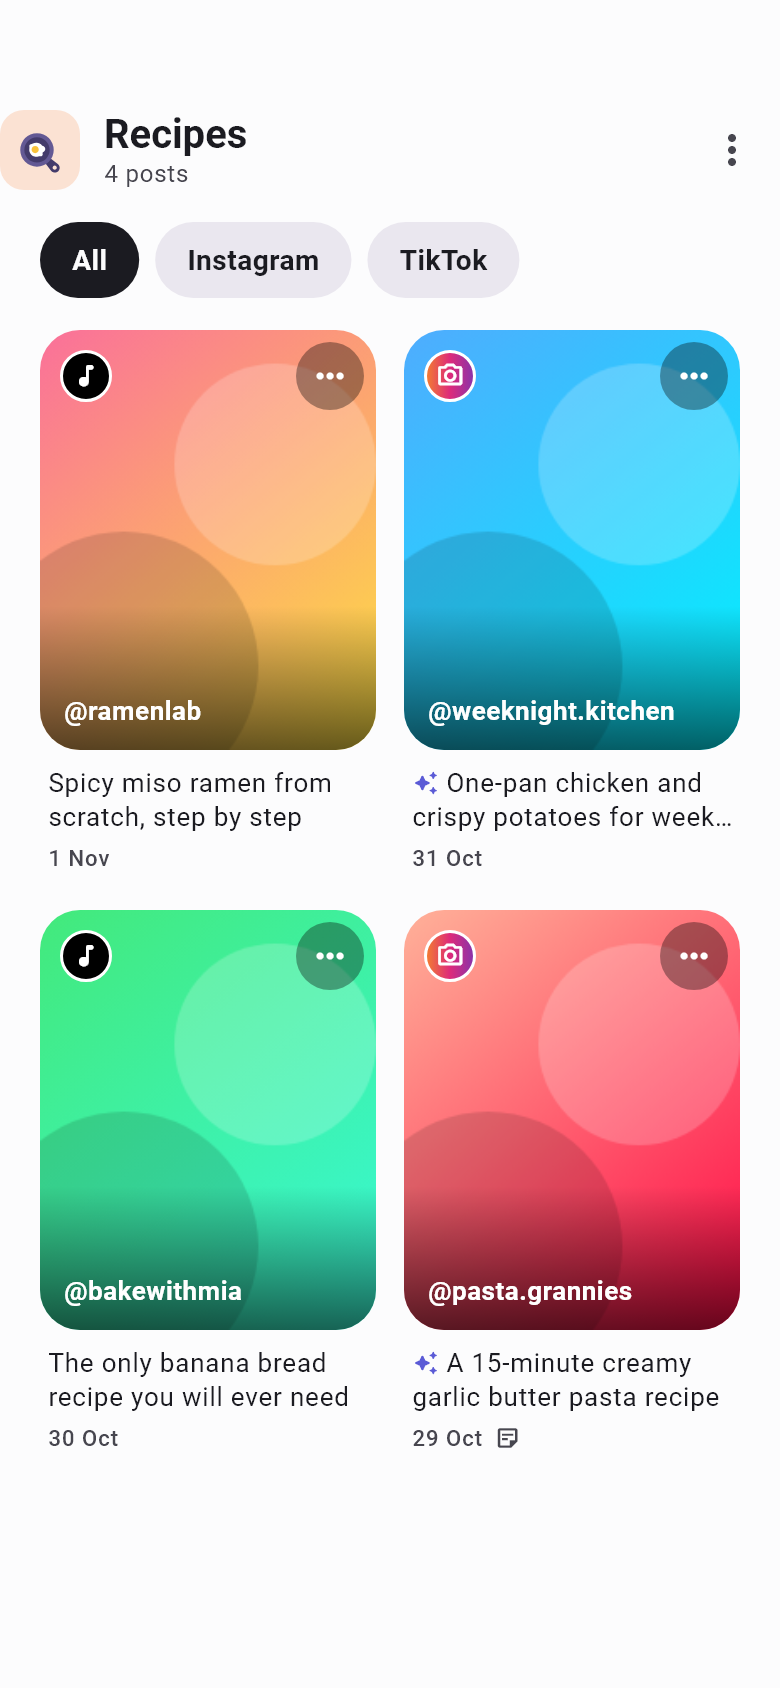
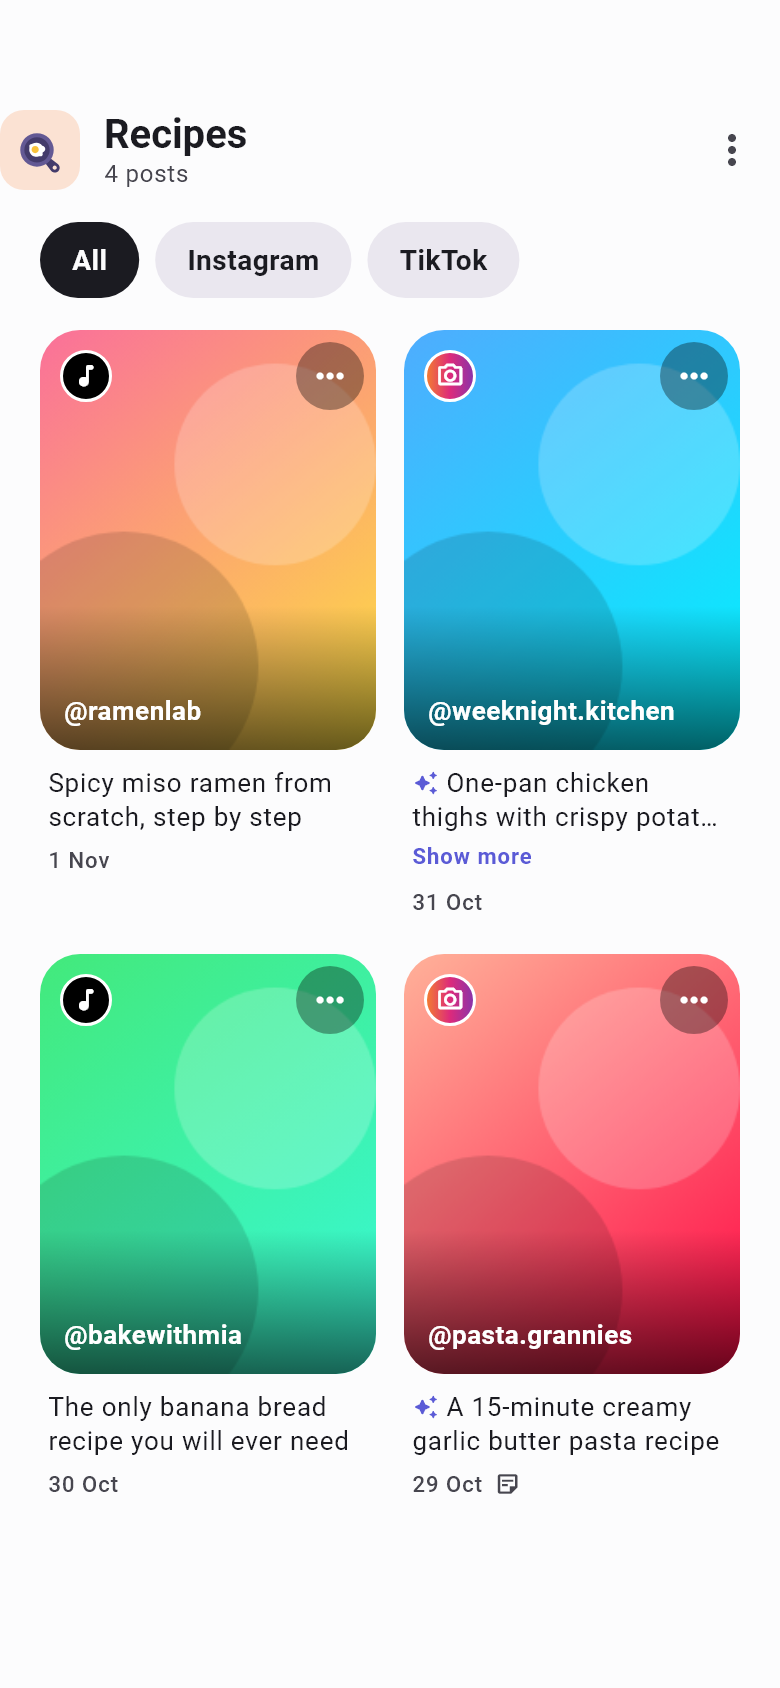
Faster AI suggestions (Haiku, thinking off), expandable descriptions, server warm-up

Changed region(s): [[0.0308, 0.4621, 0.9538, 0.8934]]

diff --git a/app/lib/ui/post_card.dart b/app/lib/ui/post_card.dart
@@ -28,28 +28,6 @@ String? _summary(Post post) {
   return c == null || c.isEmpty ? null : c;
 }
 
-/// [text] with a small sparkle in front when it was written by the AI.
-Widget _summaryText(Post post, String text, TextStyle? style, Color accent) {
-  if (post.aiDescription == null) return Text(text, maxLines: 2, overflow: TextOverflow.ellipsis, style: style);
-  return Text.rich(
-    TextSpan(
-      children: [
-        WidgetSpan(
-          alignment: PlaceholderAlignment.middle,
-          child: Padding(
-            padding: const EdgeInsets.only(right: 4),
-            child: Icon(Icons.auto_awesome_rounded, size: 13, color: accent, semanticLabel: 'AI description'),
-          ),
-        ),
-        TextSpan(text: text),
-      ],
-    ),
-    maxLines: 2,
-    overflow: TextOverflow.ellipsis,
-    style: style,
-  );
-}
-
 /// Opens the original post. The https link is a universal/app link, so the
 /// Instagram or TikTok app takes it when installed; otherwise the browser does.
 Future<void> openPost(BuildContext context, Post post) async {
@@ -138,15 +116,12 @@ class _PostMenu extends StatelessWidget {
   );
 }
 
-/// Visual card for folder grids: tall thumbnail with the author over it,
-/// caption and date underneath.
+/// Visual card for folder grids: tall thumbnail with the author over it, the
+/// description (tap "Show more" for the full text) and date underneath.
 class PostTile extends StatelessWidget {
   const PostTile({super.key, required this.store, required this.post});
   final Store store;
   final Post post;
-
-  /// Height of the text block under the image.
-  static const textHeight = 66.0;
 
   @override
   Widget build(BuildContext context) {
@@ -163,8 +138,10 @@ class PostTile extends StatelessWidget {
         onLongPress: () => showPostDetails(context, store, post),
         child: Column(
           crossAxisAlignment: CrossAxisAlignment.start,
+          mainAxisSize: MainAxisSize.min,
           children: [
-            Expanded(
+            AspectRatio(
+              aspectRatio: 0.8,
               child: ClipRRect(
                 borderRadius: BorderRadius.circular(20),
                 child: Stack(
@@ -216,36 +193,28 @@ class PostTile extends StatelessWidget {
                 ),
               ),
             ),
-            SizedBox(
-              height: textHeight,
-              child: Padding(
-                padding: const EdgeInsets.fromLTRB(4, 8, 4, 0),
-                child: Column(
-                  crossAxisAlignment: CrossAxisAlignment.start,
-                  children: [
-                    _summaryText(
-                      post,
-                      caption ?? (post.metaStatus == 0 ? 'Preview loads when you are online' : 'No description yet'),
-                      theme.textTheme.bodySmall?.copyWith(
-                        height: 1.3,
-                        fontSize: 13,
-                        color: caption == null ? muted : theme.colorScheme.onSurface,
-                      ),
-                      theme.colorScheme.primary,
-                    ),
-                    const Spacer(),
-                    Row(
-                      children: [
-                        Text(formatDate(post.createdAt), style: theme.textTheme.labelSmall?.copyWith(color: muted)),
-                        if (post.note != null) ...[
-                          const SizedBox(width: 6),
-                          Icon(Icons.sticky_note_2_outlined, size: 13, color: muted),
-                        ],
-                      ],
-                    ),
-                    const SizedBox(height: 4),
-                  ],
+            Padding(
+              padding: const EdgeInsets.fromLTRB(4, 8, 4, 0),
+              child: ExpandableText(
+                caption ?? (post.metaStatus == 0 ? 'Preview loads when you are online' : 'No description yet'),
+                ai: post.aiDescription != null,
+                style: theme.textTheme.bodySmall?.copyWith(
+                  height: 1.3,
+                  fontSize: 13,
+                  color: caption == null ? muted : theme.colorScheme.onSurface,
                 ),
+              ),
+            ),
+            Padding(
+              padding: const EdgeInsets.fromLTRB(4, 5, 4, 4),
+              child: Row(
+                children: [
+                  Text(formatDate(post.createdAt), style: theme.textTheme.labelSmall?.copyWith(color: muted)),
+                  if (post.note != null) ...[
+                    const SizedBox(width: 6),
+                    Icon(Icons.sticky_note_2_outlined, size: 13, color: muted),
+                  ],
+                ],
               ),
             ),
           ],
@@ -292,11 +261,10 @@ class PostCard extends StatelessWidget {
                     style: theme.textTheme.titleSmall?.copyWith(fontWeight: FontWeight.w700),
                   ),
                   const SizedBox(height: 3),
-                  _summaryText(
-                    post,
+                  ExpandableText(
                     caption ?? (post.metaStatus == 0 ? 'Preview loads when you are online' : post.url),
-                    theme.textTheme.bodyMedium?.copyWith(height: 1.3),
-                    theme.colorScheme.primary,
+                    ai: post.aiDescription != null,
+                    style: theme.textTheme.bodyMedium?.copyWith(height: 1.3),
                   ),
                   if (post.note != null) ...[
                     const SizedBox(height: 4),

diff --git a/app/lib/ui/widgets.dart b/app/lib/ui/widgets.dart
@@ -152,3 +152,88 @@ class Skeleton extends StatelessWidget {
     ),
   );
 }
+
+/// Text that is cut to [lines] lines and, only when it does not fit, offers
+/// "Show more". [ai] puts the sparkle in front that marks AI-written text.
+class ExpandableText extends StatefulWidget {
+  const ExpandableText(this.text, {super.key, this.style, this.lines = 2, this.ai = false});
+  final String text;
+  final TextStyle? style;
+  final int lines;
+  final bool ai;
+
+  @override
+  State<ExpandableText> createState() => _ExpandableTextState();
+}
+
+class _ExpandableTextState extends State<ExpandableText> {
+  bool _expanded = false;
+
+  @override
+  Widget build(BuildContext context) {
+    final theme = Theme.of(context);
+    final accent = theme.colorScheme.primary;
+    final style = DefaultTextStyle.of(context).style.merge(widget.style);
+
+    return LayoutBuilder(
+      builder: (context, box) {
+        // Measure with an em space standing in for the sparkle.
+        final probe = TextPainter(
+          text: TextSpan(text: '${widget.ai ? '\u2003 ' : ''}${widget.text}', style: style),
+          maxLines: widget.lines,
+          textDirection: Directionality.of(context),
+          textScaler: MediaQuery.textScalerOf(context),
+        )..layout(maxWidth: box.maxWidth);
+        final overflows = probe.didExceedMaxLines;
+        probe.dispose();
+
+        final text = Text.rich(
+          TextSpan(
+            children: [
+              if (widget.ai)
+                WidgetSpan(
+                  alignment: PlaceholderAlignment.middle,
+                  child: Padding(
+                    padding: const EdgeInsets.only(right: 4),
+                    child: Icon(Icons.auto_awesome_rounded, size: 13, color: accent, semanticLabel: 'AI description'),
+                  ),
+                ),
+              TextSpan(text: widget.text),
+            ],
+          ),
+          maxLines: _expanded ? null : widget.lines,
+          overflow: _expanded ? TextOverflow.clip : TextOverflow.ellipsis,
+          style: style,
+        );
+        if (!overflows && !_expanded) return text;
+
+        return Semantics(
+          button: true,
+          label: _expanded ? 'Show less' : 'Show full text',
+          child: GestureDetector(
+            behavior: HitTestBehavior.opaque,
+            onTap: () => setState(() => _expanded = !_expanded),
+            child: Column(
+              crossAxisAlignment: CrossAxisAlignment.start,
+              children: [
+                AnimatedSize(
+                  duration: const Duration(milliseconds: 160),
+                  curve: Curves.easeOut,
+                  alignment: Alignment.topLeft,
+                  child: text,
+                ),
+                Padding(
+                  padding: const EdgeInsets.only(top: 3, bottom: 2),
+                  child: Text(
+                    _expanded ? 'Show less' : 'Show more',
+                    style: theme.textTheme.labelSmall?.copyWith(color: accent, fontWeight: FontWeight.w700),
+                  ),
+                ),
+              ],
+            ),
+          ),
+        );
+      },
+    );
+  }
+}

diff --git a/app/lib/ui/folder_screen.dart b/app/lib/ui/folder_screen.dart
@@ -118,19 +118,33 @@ class _FolderScreenState extends State<FolderScreen> {
                   )
                 : LayoutBuilder(
                     builder: (context, box) {
-                      // Two columns on phones, more on wide screens; thumbnails stay 4:5.
+                      // Two columns on phones, more on wide screens. Rows size to
+                      // their content so a description can be expanded in place.
                       final columns = (box.maxWidth / 240).ceil().clamp(2, 6);
-                      final width = (box.maxWidth - 40 - 14 * (columns - 1)) / columns;
-                      return GridView.builder(
+                      final rows = (posts.length / columns).ceil();
+                      return ListView.builder(
                         padding: EdgeInsets.fromLTRB(20, 8, 20, 24 + MediaQuery.paddingOf(context).bottom),
-                        gridDelegate: SliverGridDelegateWithFixedCrossAxisCount(
-                          crossAxisCount: columns,
-                          crossAxisSpacing: 14,
-                          mainAxisSpacing: 14,
-                          mainAxisExtent: width * 1.25 + PostTile.textHeight,
+                        itemCount: rows,
+                        itemBuilder: (_, r) => Padding(
+                          padding: const EdgeInsets.only(bottom: 14),
+                          child: Row(
+                            crossAxisAlignment: CrossAxisAlignment.start,
+                            children: [
+                              for (var c = 0; c < columns; c++) ...[
+                                if (c > 0) const SizedBox(width: 14),
+                                Expanded(
+                                  child: r * columns + c < posts.length
+                                      ? PostTile(
+                                          key: ValueKey(posts[r * columns + c].id),
+                                          store: store,
+                                          post: posts[r * columns + c],
+                                        )
+                                      : const SizedBox.shrink(),
+                                ),
+                              ],
+                            ],
+                          ),
                         ),
-                        itemCount: posts.length,
-                        itemBuilder: (_, i) => PostTile(key: ValueKey(posts[i].id), store: store, post: posts[i]),
                       );
                     },
                   ),

diff --git a/backend/lib/suggest.js b/backend/lib/suggest.js
@@ -2,7 +2,10 @@ import Anthropic from '@anthropic-ai/sdk';
 import { zodOutputFormat } from '@anthropic-ai/sdk/helpers/zod';
 import { z } from 'zod';
 
-const MODEL = process.env.SUGGEST_MODEL || 'claude-opus-5-5';
+// The share sheet waits on this call, so the default is the fast model with
+// thinking off. Set SUGGEST_MODEL=claude-opus-5-5 to trade speed for judgment.
+const MODEL = process.env.SUGGEST_MODEL || 'claude-haiku-5-5';
+const FAST = MODEL.startsWith('claude-haiku');
 
 const Answer = z.object({
   description: z
@@ -45,7 +48,7 @@ async function loadCover(url) {
   try {
     const u = new URL(url);
     if (u.protocol !== 'https:' || !IMAGE_HOST.test(u.hostname)) return null;
-    const res = await fetch(u, { signal: AbortSignal.timeout(2500), redirect: 'error' });
+    const res = await fetch(u, { signal: AbortSignal.timeout(1500), redirect: 'error' });
     const type = (res.headers.get('content-type') || '').split(';')[0].trim().toLowerCase();
     if (!res.ok || !IMAGE_TYPES.has(type)) return null;
     const bytes = Buffer.from(await res.arrayBuffer());
@@ -86,13 +89,16 @@ export async function suggestFolder(input) {
     caption: clip(input.caption, 1500),
     hashtags: (Array.isArray(input.hashtags) ? input.hashtags : []).slice(0, 30).map((h) => clip(h, 40)),
   };
+  const started = Date.now();
   const cover = typeof input.thumbnailUrl === 'string' ? await loadCover(input.thumbnailUrl) : null;
+  const coverMs = Date.now() - started;
   if (!post.caption && post.hashtags.length === 0 && !cover) return none; // nothing to go on
 
   const res = await anthropic.messages.parse({
     model: MODEL,
-    max_tokens: 2000,
+    max_tokens: 1000,
     system: SYSTEM,
+    ...(FAST ? { thinking: { type: 'disabled' } } : {}),
     output_config: { effort: 'low', format: zodOutputFormat(Answer) },
     messages: [
       {
@@ -104,6 +110,7 @@ export async function suggestFolder(input) {
       },
     ],
   });
+  console.log(`suggest: ${MODEL} cover=${cover ? coverMs + 'ms' : 'none'} total=${Date.now() - started}ms`);
   if (res.stop_reason === 'refusal' || !res.parsed_output) return none;
 
   const out = res.parsed_output;

diff --git a/app/test_screens/screens_test.dart b/app/test_screens/screens_test.dart
@@ -69,6 +69,9 @@ class _FakeApi extends Api {
   final String folderId;
 
   @override
+  Future<bool> ping() async => true;
+
+  @override
   Future<PostMeta?> metadata(String url, {Duration timeout = const Duration(seconds: 8)}) async => PostMeta(
     url: url,
     resolved: true,
@@ -130,7 +133,7 @@ const _posts = [
 
 const _descriptions = [
   'A 15-minute creamy garlic butter pasta recipe',
-  'One-pan chicken and crispy potatoes for weeknights',
+  'One-pan chicken thighs with crispy potatoes, lemon and garlic for busy weeknights',
   'Quiet beaches on the southern Albanian coast',
   'The most scenic train ride through the Swiss Alps',
   'Three stretches that loosen tight hips',
@@ -309,6 +312,13 @@ void main() {
   });
 
   testWidgets('settings', (t) => shot(t, 'settings', (_, store) async => AccountScreen(store: store)));
+
+  testWidgets('folder expanded', (t) async {
+    await shot(t, 'folder_expanded', (repo, store) async {
+      final f = store.folders.firstWhere((f) => f.name == 'Recipes');
+      return FolderScreen(store: store, folderId: f.id);
+    }, after: () => t.tap(find.text('Show more').first));
+  });
 
   testWidgets('post details', (t) async {
     await shot(t, 'post_details', (repo, store) async {

diff --git a/app/lib/share/share_sheet.dart b/app/lib/share/share_sheet.dart
@@ -61,6 +61,9 @@ class _ShareSheetState extends State<ShareSheet> {
   }
 
   Future<void> _start() async {
+    // Wake the server and open the connection while the preview loads, so
+    // the AI request that follows does not pay for either.
+    unawaited(c.api.ping());
     var text = widget.sharedText;
     if (text == null) {
       try {
@@ -367,10 +370,9 @@ class _Preview extends StatelessWidget {
                 ),
               const SizedBox(height: 5),
               if (caption != null && caption.isNotEmpty)
-                Text(
+                ExpandableText(
                   caption.replaceAll(RegExp(r'\s+'), ' '),
-                  maxLines: 2,
-                  overflow: TextOverflow.ellipsis,
+                  ai: aiDescription != null,
                   style: theme.textTheme.bodySmall?.copyWith(color: muted, height: 1.3),
                 )
               else if (loading)

diff --git a/app/lib/ui/post_details.dart b/app/lib/ui/post_details.dart
@@ -135,12 +135,7 @@ class _PostDetails extends StatelessWidget {
             if (caption != null && caption.isNotEmpty) ...[
               const SizedBox(height: 18),
               label('Caption'),
-              Text(
-                caption,
-                maxLines: 6,
-                overflow: TextOverflow.ellipsis,
-                style: theme.textTheme.bodyMedium?.copyWith(color: muted, height: 1.4),
-              ),
+              ExpandableText(caption, lines: 4, style: theme.textTheme.bodyMedium?.copyWith(color: muted, height: 1.4)),
             ],
             const SizedBox(height: 18),
             Material(
